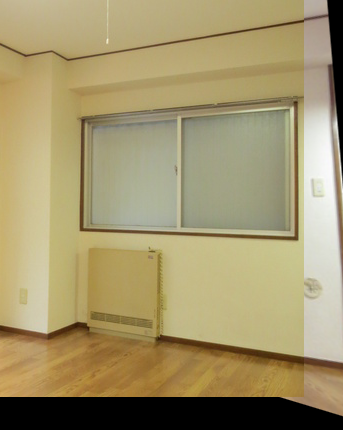
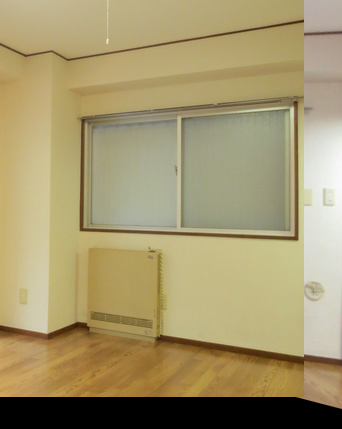
Added MyMatch(matching set) class definition.
Fix some functions to using MyMatch class.

Added inlier only drawing condition to draw_match function.

diff --git a/findhomography.py b/findhomography.py
@@ -8,10 +8,40 @@ import numpy as np
 import sys
 import os.path
 import random
+import operator
 
 # リサイズ時の最大サイズ定義
 IMAGE_MAX_XSIZE = 800
 IMAGE_MAX_YSIZE = 1000
+
+# MyMatchクラス
+# マッチング点対をクラスとして再定義
+
+class MyMatch:
+    def __init__(self, point1, point2, distance, inlier):
+        # コンストラクタ
+        # 引数: 点1, 点2, 距離, インライア
+        self.point1 = point1
+        self.point2 = point2
+        self.distance = distance
+        self.inlier = inlier[0]
+
+    def isAccepted(self):
+        # その対応についてインライアを真偽値で返す
+        if self.inlier == 1:
+            return True
+        else:
+            return False
+
+    def enable(self):
+        # その対応について強制的に有効(インライア)にする
+        self.inlier = 1
+
+    def disable(self):
+        # その対応について強制的に無効(アウトライア)にする
+        self.inlier = 0
+
+
 
 # リサイズの計算
 # 縦は1000, 横は800が最大
@@ -112,18 +142,16 @@ def composite_panorama(im1, im2, method='SURF', desc='BRIEF', matcher='BruteForc
     
     # keep only the reasonable matches
     sel_matches = [m for m in matches if m.distance < thres_dist]
-    print "#threshold ratio:", threshold_ratio
-    print "#selected matches:", len(sel_matches)
+    print "#threshold ratio: %.3f" % threshold_ratio
+    print "#threshold distance: %.3f" % thres_dist
+    print "#selected matches: %d" % len(sel_matches)
     if len(sel_matches) <= 4:
         return (None, None)
 
-    # このソートを有効にすると結果が変わる可能性がある
-    sel_matches = sorted(sel_matches, key = lambda x:x.distance)
-    
-    # マッチングされた点の抽出(しきい値処理)
+    # マッチングされた点の抽出(しきい値処理済み)
     point1 = [[k1[m.queryIdx].pt[0], k1[m.queryIdx].pt[1]] for m in sel_matches]
     point2 = [[k2[m.trainIdx].pt[0], k2[m.trainIdx].pt[1]] for m in sel_matches]
-    distance_table = [m.distance for m in sel_matches]
+    dist_table = [m.distance for m in sel_matches]
     
     # マッチング点の範囲絞り込み
     #del_list = []
@@ -141,13 +169,35 @@ def composite_panorama(im1, im2, method='SURF', desc='BRIEF', matcher='BruteForc
     #
     #print "#selected matches:", len(point1)
     
+
+    # y座標差が規定を超えるものについて対応を無効とし
+    # 対応リストから削除する
+    Y_threshold = im1.shape[0] * 0.4
+    for i in range(len(point1)-1, -1, -1):
+        if abs(point1[i][1] - point2[i][1]) > Y_threshold:
+            del point1[i]
+            del point2[i]
+            dist_table.pop(i)
+
+    print "#selected matches(Y-subtraction over): %d" % len(point1)
+
     point1 = np.array(point1)
     point2 = np.array(point2)
-    
+
     # H: ホモグラフィ行列
     # Hstatus: RANSACにより取捨選択された点のマスク[0,1]
     H, Hstatus = cv2.findHomography(point2, point1, cv2.RANSAC)
-    
+
+    # インライアの数を計算
+    num_inliers = np.count_nonzero(Hstatus)
+
+    print "#selected matches(inliers): %d" % num_inliers
+    print "#selected matches(outliers): %d" % (len(point1) - num_inliers)
+
+    # MyMatchリストを作成
+    matches = [ MyMatch(p1, p2, d, stat) for (p1, p2, d, stat) \
+            in zip(point1, point2, dist_table, Hstatus) ]
+
     # 移動量を算出
     x = 0
     y = 0
@@ -171,27 +221,25 @@ def composite_panorama(im1, im2, method='SURF', desc='BRIEF', matcher='BruteForc
         for j in xrange(h1):
             dst[j,i] = im1[j,i]
 
-    return (dst, (point1, point2, distance_table))
+    return (dst, matches)
+    #return (dst, (point1, point2, dist_table))
     
 
-def draw_match(im1, im2, match, m=0, M=255):
+def draw_match(im1, im2, match_list, m=0, M=255, drawinliers=True):
 
     imcat = cv2.hconcat([im1, im2])
-
-    point1 = match[0]
-    point2 = match[1]
-    distance_table = match[2]
     hoffset = im1.shape[1]
-    #print distance_table
+    dist_max = max([i.distance for i in match_list])
 
-    for (p1, p2, d) in zip(point1, point2, distance_table):
-        if d >= m and d <= M:
-            color_hsv = np.uint8([[(100*(d/max(distance_table)), 255, 255)]])
-            color_rgb = cv2.cvtColor(color_hsv, cv2.COLOR_HSV2BGR)
-            color = tuple(map(int,color_rgb[0,0]))
-            origin = tuple(map(int, [p1[0], p1[1]]))
-            terminal = tuple(map(int, [p2[0]+hoffset, p2[1]]))
-            cv2.line(imcat, origin, terminal, color)
+    for p in match_list:
+        if p.distance >= m and p.distance <= M:
+            if drawinliers == True and p.isAccepted() or drawinliers == False: 
+                color_hsv = np.uint8([[(100*(p.distance/float(dist_max)), 255, 255)]])
+                color_rgb = cv2.cvtColor(color_hsv, cv2.COLOR_HSV2BGR)
+                color = tuple(map(int,color_rgb[0,0]))
+                origin = tuple(map(int, [p.point1[0], p.point1[1]]))
+                terminal = tuple(map(int, [p.point2[0]+hoffset, p.point2[1]]))
+                cv2.line(imcat, origin, terminal, color)
 
     return imcat
 
@@ -225,7 +273,7 @@ def main():
     im2 = image_trim(im2, (  0,100), (331,497))
 
     dst, match = composite_panorama( \
-            im1, im2, 'SURF', 'BRIEF', 'BruteForce-Hamming', 1.5)
+            im1, im2, 'SURF', 'BRIEF', 'BruteForce-Hamming', 1.2)
     #for i in range(0,30):
     #    dst, match = composite_panorama( \
     #         im1, im2, 'SURF', 'BRIEF', 'BruteForce-Hamming', 0.1+0.1*i)
